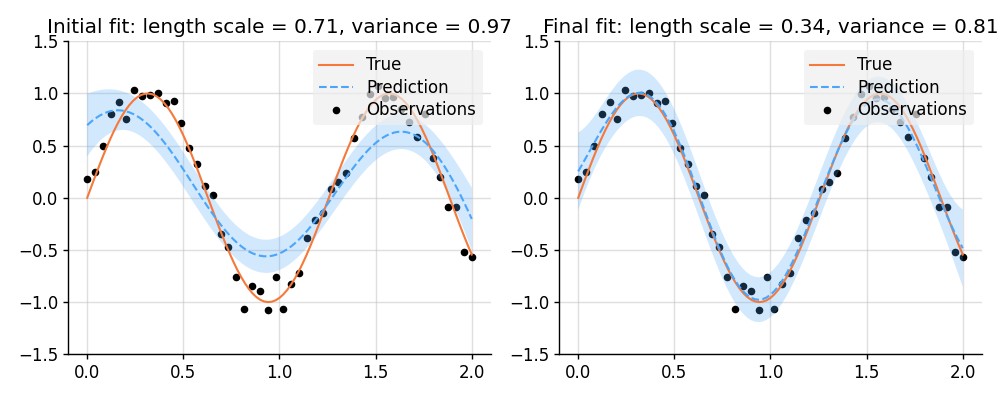
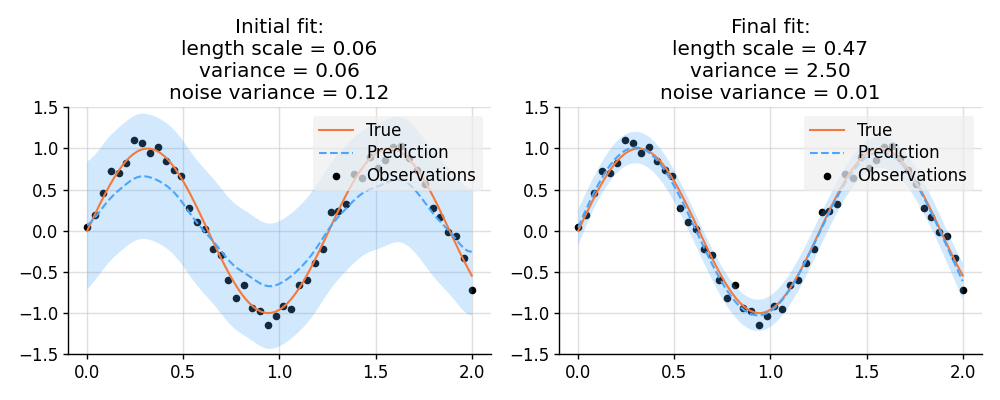
Fix noise variance problem

Changed region(s): [[0.031, 0.03, 1.0, 0.87], [0.527, 0.75, 0.558, 0.81], [0.961, 0.72, 0.992, 0.75]]

diff --git a/readme_example12_optimization.py b/readme_example12_optimization.py
@@ -6,7 +6,7 @@ from varz.torch import Vars, minimise_l_bfgs_b
 from varz.spec import parametrised, Positive
 import lab.torch as B
 
-B.set_random_seed(0)
+B.set_random_seed(42)
 
 
 # Sample a true, underlying function and observations with known noise.
@@ -14,37 +14,37 @@ x_obs = B.linspace(0, 2, 50)
 x = B.linspace(0, 2, 101)
 true_func = lambda x: B.sin(5 * x)
 f_true = true_func(x_obs)
-noise_true = 0.1
-y_obs = f_true + noise_true * B.randn(x_obs.shape[0])
+true_noise_var = 0.01
+y_obs = f_true + (true_noise_var ** 0.5) * B.randn(x_obs.shape[0])
 
 
 # Construct a model with learnable parameters.
 def model(vs):
     # Varz handles positivity (and other) constraints.
     kernel = vs.positive(name="variance") * EQ().stretch(vs.positive(name="ls"))
-    noise = noise_true
-    return GP(kernel), noise
+    noise_var = vs.positive(name="noise_var")
+    return GP(kernel), noise_var
 
 
 # A more convenient way of defining above model
 # @parametrised
-# def model(vs, noise: Positive, ls: Positive, variance: Positive):
+# def model(vs, ls: Positive, variance: Positive, noise_var: Positive):
 #     """Constuct a model with learnable parameters."""
 #     kernel = variance * EQ().stretch(ls)
-#     return GP(kernel), noise
+#     return GP(kernel), noise_var
 
 
 # Define an objective function.
 def objective(vs):
-    f, noise = model(vs)
-    return -f(x_obs, noise).logpdf(y_obs)
+    f, noise_var = model(vs)
+    return -f(x_obs, noise_var).logpdf(y_obs)
 
 
 # Plotting function
 def plot_model(vs, title_prefix):
-    f, noise = model(vs)
-    f_post = f | (f(x_obs, noise), y_obs)
-    mean, lower, upper = f_post(x).marginal_credible_bounds()
+    f, noise_var = model(vs)
+    f_post = f | (f(x_obs, noise_var), y_obs)
+    mean, lower, upper = f_post(x, noise_var).marginal_credible_bounds()
 
     plt.scatter(x_obs, y_obs, label="Observations", style="train", s=20)
     plt.plot(x, true_func(x), label="True", style="test")
@@ -53,7 +53,9 @@ def plot_model(vs, title_prefix):
     plt.ylim(-1.5, 1.5)
     plt.title(
         title_prefix
-        + " length scale = {:.2f}, variance = {:.2f}".format(vs["ls"], vs["variance"])
+        + "\nlength scale = {:.2f}\nvariance = {:.2f}\nnoise variance = {:.2f}".format(
+            vs["ls"], vs["variance"], noise_var
+        )
     )
     tweak()
 

diff --git a/README.md b/README.md
@@ -881,7 +881,7 @@ from varz.torch import Vars, minimise_l_bfgs_b
 from varz.spec import parametrised, Positive
 import lab.torch as B
 
-B.set_random_seed(0)
+B.set_random_seed(42)
 
 
 # Sample a true, underlying function and observations with known noise.
@@ -889,37 +889,37 @@ x_obs = B.linspace(0, 2, 50)
 x = B.linspace(0, 2, 101)
 true_func = lambda x: B.sin(5 * x)
 f_true = true_func(x_obs)
-noise_true = 0.1
-y_obs = f_true + noise_true * B.randn(x_obs.shape[0])
+true_noise_var = 0.01
+y_obs = f_true + (true_noise_var ** 0.5) * B.randn(x_obs.shape[0])
 
 
 # Construct a model with learnable parameters.
 def model(vs):
     # Varz handles positivity (and other) constraints.
     kernel = vs.positive(name="variance") * EQ().stretch(vs.positive(name="ls"))
-    noise = noise_true
-    return GP(kernel), noise
+    noise_var = vs.positive(name="noise_var")
+    return GP(kernel), noise_var
 
 
 # A more convenient way of defining above model
 # @parametrised
-# def model(vs, noise: Positive, ls: Positive, variance: Positive):
+# def model(vs, ls: Positive, variance: Positive, noise_var: Positive):
 #     """Constuct a model with learnable parameters."""
 #     kernel = variance * EQ().stretch(ls)
-#     return GP(kernel), noise
+#     return GP(kernel), noise_var
 
 
 # Define an objective function.
 def objective(vs):
-    f, noise = model(vs)
-    return -f(x_obs, noise).logpdf(y_obs)
+    f, noise_var = model(vs)
+    return -f(x_obs, noise_var).logpdf(y_obs)
 
 
 # Plotting function
 def plot_model(vs, title_prefix):
-    f, noise = model(vs)
-    f_post = f | (f(x_obs, noise), y_obs)
-    mean, lower, upper = f_post(x).marginal_credible_bounds()
+    f, noise_var = model(vs)
+    f_post = f | (f(x_obs, noise_var), y_obs)
+    mean, lower, upper = f_post(x, noise_var).marginal_credible_bounds()
 
     plt.scatter(x_obs, y_obs, label="Observations", style="train", s=20)
     plt.plot(x, true_func(x), label="True", style="test")
@@ -928,7 +928,9 @@ def plot_model(vs, title_prefix):
     plt.ylim(-1.5, 1.5)
     plt.title(
         title_prefix
-        + " length scale = {:.2f}, variance = {:.2f}".format(vs["ls"], vs["variance"])
+        + "\nlength scale = {:.2f}\nvariance = {:.2f}\nnoise variance = {:.2f}".format(
+            vs["ls"], vs["variance"], noise_var
+        )
     )
     tweak()
 
